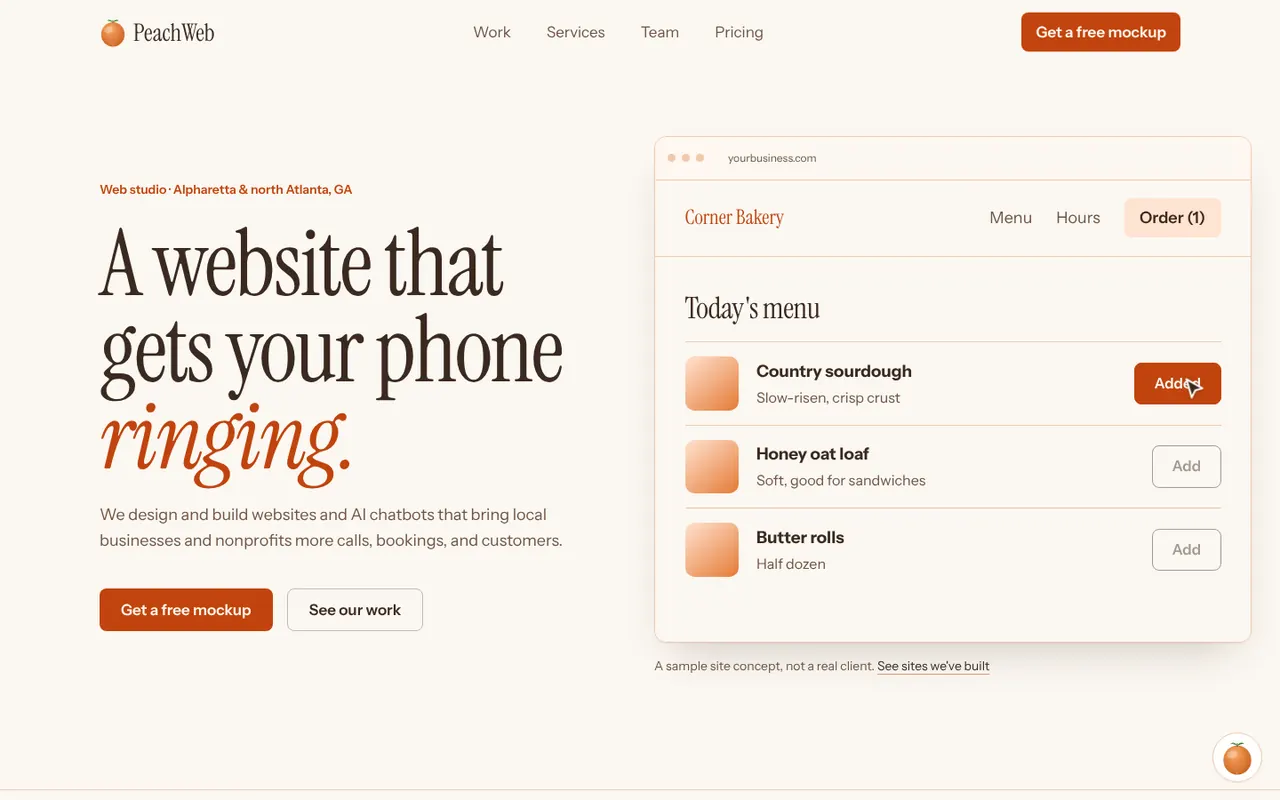
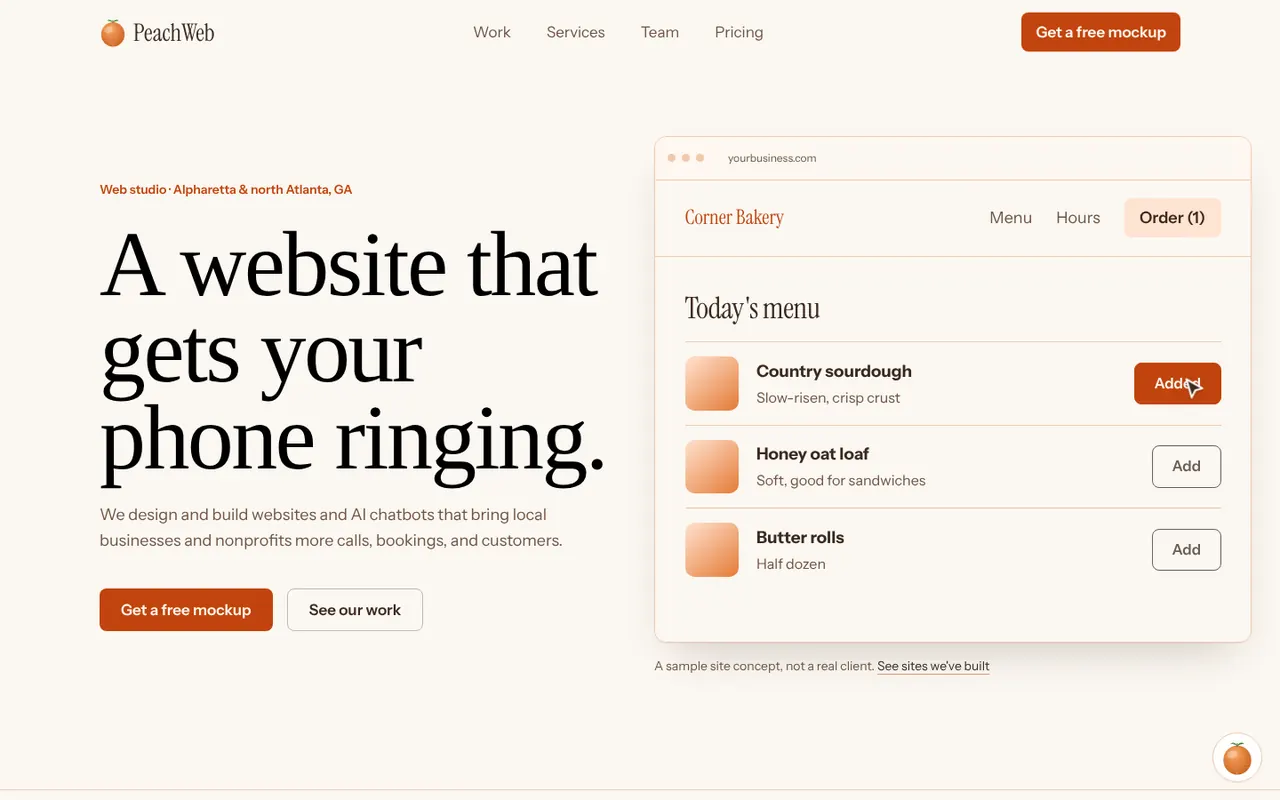
Use a plain Times New Roman hero headline and a starker before/after
- Hero headline is now Times New Roman in a single black, with no italic
  accent word
- Before/after slider compares a made-up cluttered do-it-yourself site
  (captioned as an illustration) with our homepage, instead of our own
  old design

Claude-Session: https://claude.ai/code/session_01WF8Vk9QyQ8jLFk2xpjEvzv

diff --git a/frontend/src/components/BeforeAfter.jsx b/frontend/src/components/BeforeAfter.jsx
@@ -9,11 +9,11 @@ export default function BeforeAfter() {
     <div className="grid-12 mt-32 items-center gap-y-8 border-t border-line pt-16 sm:mt-48 lg:pt-24">
       <div className="reveal col-span-4 sm:col-span-8 lg:col-span-4">
         <p className="mb-2 text-sm text-muted">Before and after</p>
-        <h3 className="mb-4 text-h3">Our own site</h3>
+        <h3 className="mb-4 text-h3">From cluttered to clear</h3>
         <p className="max-w-prose text-muted">
-          The left side is the PeachWeb homepage before this redesign. It looked tidy, but our real work was hidden
-          in a list of names. The new one puts screenshots of every site up front. Drag the handle
-          to compare.
+          On the left is the kind of do-it-yourself site a lot of local businesses are stuck with: cluttered, hard to
+          read, and the phone number buried halfway down. On the right is a site we designed. Drag the handle to
+          compare.
         </p>
       </div>
 
@@ -21,13 +21,13 @@ export default function BeforeAfter() {
         <div className="frame relative select-none">
           <img
             src="/work/peachweb-after.webp"
-            alt="The redesigned PeachWeb homepage"
+            alt="The PeachWeb homepage, designed by us"
             width="1280" height="800" loading="lazy" decoding="async"
             className="block h-auto w-full"
           />
           <img
-            src="/work/peachweb-before.webp"
-            alt="The previous PeachWeb homepage"
+            src="/work/example-before.webp"
+            alt="A made-up example of a cluttered do-it-yourself small-business website"
             width="1280" height="800" loading="lazy" decoding="async"
             className="absolute inset-0 block h-full w-full"
             style={{ clipPath: `inset(0 ${100 - pos}% 0 0)` }}
@@ -40,8 +40,8 @@ export default function BeforeAfter() {
             type="range" min="0" max="100" step="1"
             value={pos}
             onChange={e => setPos(+e.target.value)}
-            aria-label="Compare the old and new PeachWeb homepage"
-            aria-valuetext={`${pos}% old site`}
+            aria-label="Compare a cluttered example site with a site we designed"
+            aria-valuetext={`${pos}% example site`}
             className="ba-input absolute inset-0 h-full w-full cursor-ew-resize opacity-0"
             style={{ touchAction: 'pan-y' }}
           />
@@ -53,7 +53,9 @@ export default function BeforeAfter() {
             </span>
           </div>
         </div>
-        <figcaption className="mt-4 text-sm text-muted">Screenshots at 1440px wide.</figcaption>
+        <figcaption className="mt-4 text-sm text-muted">
+          "Before" is an illustration of a made-up business, not a real site. "After" is our own homepage.
+        </figcaption>
       </figure>
     </div>
   )

diff --git a/frontend/src/components/Hero.jsx b/frontend/src/components/Hero.jsx
@@ -7,8 +7,8 @@ export default function Hero({ onMockup }) {
       <div className="page grid-12 items-center gap-y-12">
         <div className="col-span-4 sm:col-span-12 lg:col-span-6">
           <p className="label mb-6">Web studio · {LOCATION}</p>
-          <h1 id="hero-heading" className="mb-6 max-w-[11ch] text-h1">
-            A website that gets your phone <em className="text-burnt">ringing.</em>
+          <h1 id="hero-heading" className="mb-6 max-w-[11ch] font-hero text-h1 text-black">
+            A website that gets your phone ringing.
           </h1>
           <p className="mb-10 max-w-prose text-lg text-muted">
             We design and build websites and AI chatbots that bring local businesses and nonprofits more calls,

diff --git a/frontend/tailwind.config.js b/frontend/tailwind.config.js
@@ -18,6 +18,7 @@ export default {
       fontFamily: {
         sans: ['"Instrument Sans Variable"', 'system-ui', 'sans-serif'],
         display: ['"Instrument Serif"', 'Georgia', 'serif'],
+        hero: ['"Times New Roman"', 'Times', 'serif'],
       },
       // Type scale. Display sizes are fluid between 360px and 1440px.
       fontSize: {

diff --git a/docs/redesign-audit.md b/docs/redesign-audit.md
@@ -54,9 +54,10 @@ All of these live in `frontend/src/content/site.js` unless noted.
   booking +0.5; rounded down) is a guess to tune.
 - **What the free mockup includes** (FAQ "What is the free mockup?"). Written as "a first
   design of your homepage". Confirm that's the offer.
-- **Before/after slider** uses PeachWeb's own old and new homepage, because no client "before"
-  screenshots exist. Swap in a client's old site (`public/work/peachweb-before.webp` /
-  `-after.webp` and the copy in `components/BeforeAfter.jsx`) when you have one.
+- **Before/after slider**: "before" is a made-up "Joe's Plumbing & More" do-it-yourself site
+  (an illustration, captioned as such) and "after" is our own homepage. Swap in a real client's
+  old and new site when you have one (`public/work/example-before.webp`, `peachweb-after.webp`
+  and the copy in `components/BeforeAfter.jsx`).
 - **Chatbot demo** is a scripted conversation for a fictional "Fern & Flour Bakery" and is
   labelled as a demo in the UI.
 - **Project one-liners** were written from what each live site says about itself (e.g.
